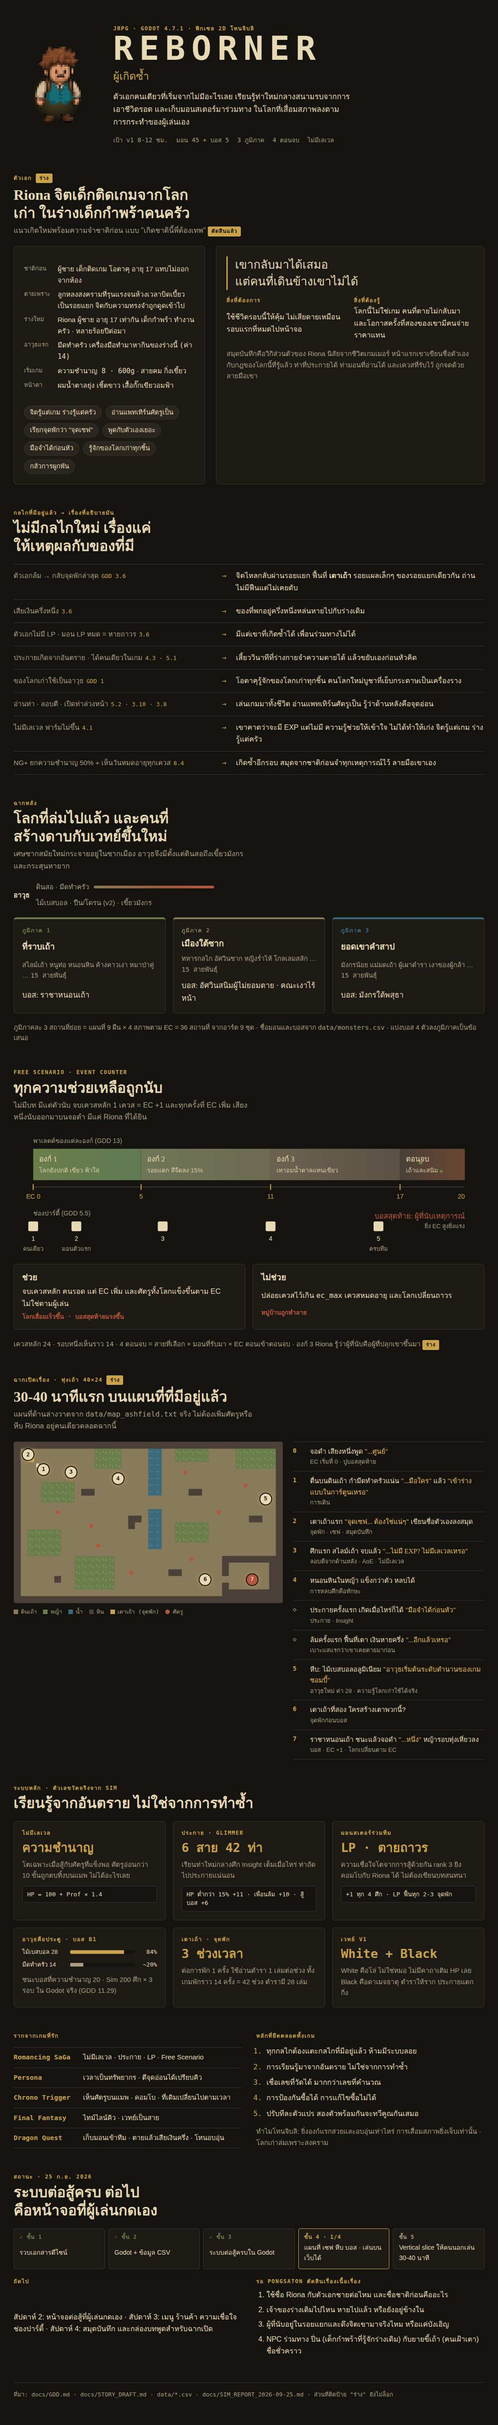
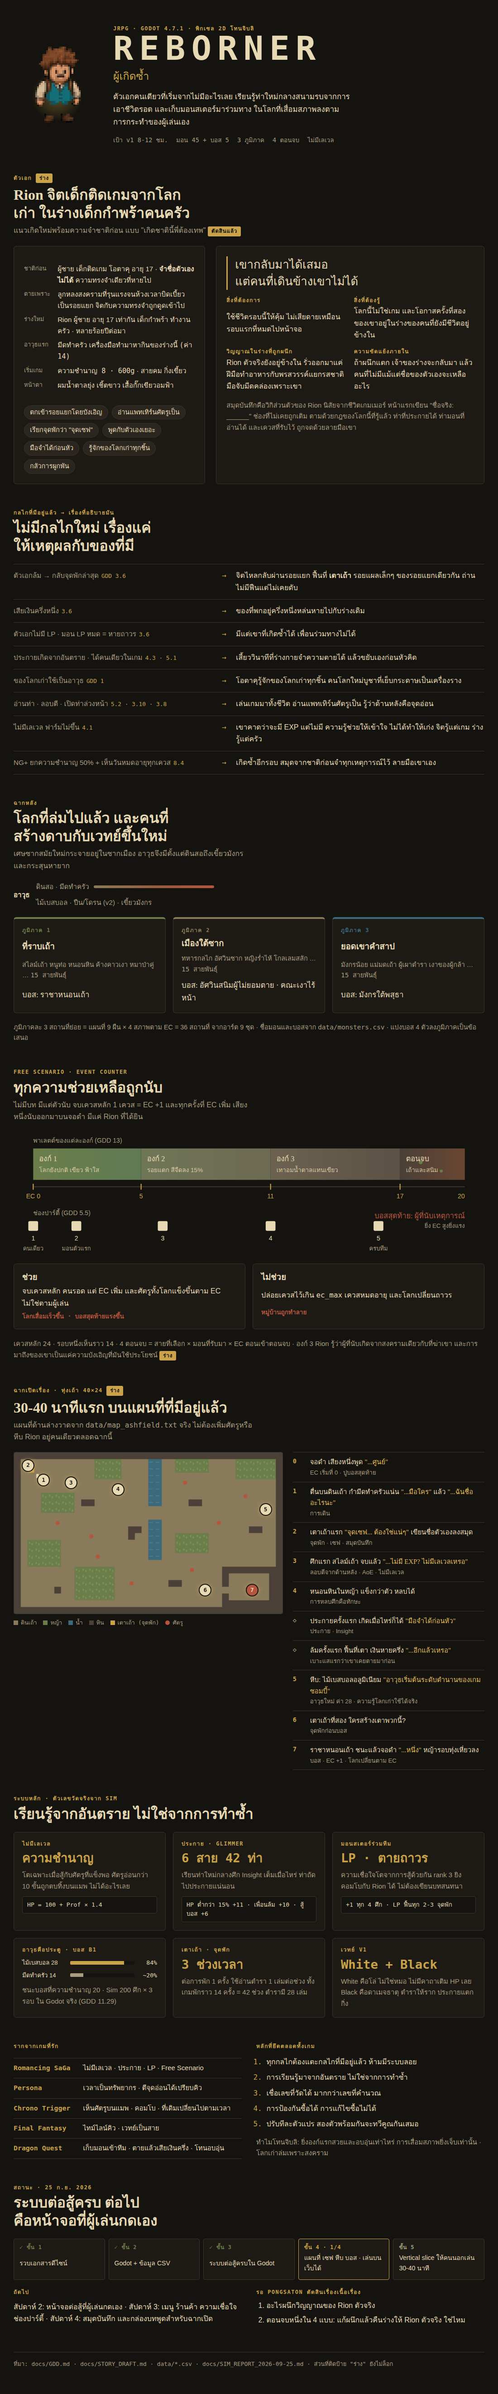
reborner: hero renamed Rion; forgotten past name, sealed original soul, accidental crossing
Claude-Session: https://claude.ai/code/session_01GQscemcyhAULQ41Vq3Zx3F

diff --git a/reborner/docs/INFOGRAPHIC.html b/reborner/docs/INFOGRAPHIC.html
@@ -72,7 +72,7 @@ p { margin: 0; }
 .hero .pitch { max-width: 56ch; margin-top: 16px; font-size: 1.05rem; }
 .hero .meta { display: flex; flex-wrap: wrap; gap: 8px 18px; margin-top: 16px; color: var(--muted); font: 500 0.85rem/1.4 var(--hud); }
 
-/* ── Riona ── */
+/* ── Rion ── */
 .riona { display: grid; grid-template-columns: minmax(0, 5fr) minmax(0, 7fr); gap: 24px; }
 .card { background: var(--ash-2); border: 1px solid var(--line); border-radius: 6px; padding: 22px; display: grid; gap: 16px; align-content: start; }
 .stats { display: grid; grid-template-columns: auto 1fr; gap: 6px 16px; font-size: 0.95rem; }
@@ -189,7 +189,7 @@ footer { color: var(--muted); font: 500 0.8rem/1.6 var(--hud); border-top: 1px s
 
 <!-- ── HERO ── -->
 <section class="hero">
[2 lines of base64/hex data omitted]
   <div>
     <span class="label">JRPG · Godot 4.7.1 · พิกเซล 2D โทนจิบลิ</span>
     <h1>REBORNER</h1>
@@ -203,21 +203,21 @@ footer { color: var(--muted); font: 500 0.8rem/1.6 var(--hud); border-top: 1px s
 <section class="sec">
   <header>
     <span class="label">ตัวเอก <span class="draft">ร่าง</span></span>
-    <h2>Riona จิตเด็กติดเกมจากโลกเก่า ในร่างเด็กกำพร้าคนครัว</h2>
+    <h2>Rion จิตเด็กติดเกมจากโลกเก่า ในร่างเด็กกำพร้าคนครัว</h2>
     <p>แนวเกิดใหม่พร้อมความจำชาติก่อน แบบ "เกิดชาตินี้พี่ต้องเทพ" <span class="draft">ตัดสินแล้ว</span></p>
   </header>
   <div class="riona">
     <div class="card">
       <dl class="stats">
-        <dt>ชาติก่อน</dt><dd>ผู้ชาย เด็กติดเกม โอตาคุ อายุ 17 แทบไม่ออกจากห้อง</dd>
+        <dt>ชาติก่อน</dt><dd>ผู้ชาย เด็กติดเกม โอตาคุ อายุ 17 · <b>จำชื่อตัวเองไม่ได้</b> ความทรงจำเดียวที่หายไป</dd>
         <dt>ตายเพราะ</dt><dd>ลูกหลงสงครามที่รุนแรงจนห้วงเวลาบิดเบี้ยวเป็นรอยแยก จิตกับความทรงจำถูกดูดเข้าไป</dd>
-        <dt>ร่างใหม่</dt><dd>Riona ผู้ชาย อายุ 17 เท่ากัน เด็กกำพร้า ทำงานครัว · หลายร้อยปีต่อมา</dd>
+        <dt>ร่างใหม่</dt><dd>Rion ผู้ชาย อายุ 17 เท่ากัน เด็กกำพร้า ทำงานครัว · หลายร้อยปีต่อมา</dd>
         <dt>อาวุธแรก</dt><dd>มีดทำครัว เครื่องมือทำมาหากินของร่างนี้ <span class="num">(ค่า 14)</span></dd>
         <dt>เริ่มเกม</dt><dd><span class="num">ความชำนาญ 8 · 600g</span> · สายคม กิ่งเขี้ยว</dd>
         <dt>หน้าตา</dt><dd>ผมน้ำตาลยุ่ง เชิ้ตขาว เสื้อกั๊กเขียวอมฟ้า</dd>
       </dl>
       <div class="chips">
-        <span class="chip">จิตรู้แต่เกม ร่างรู้แต่ครัว</span>
+        <span class="chip">ตกเข้ารอยแยกโดยบังเอิญ</span>
         <span class="chip">อ่านแพทเทิร์นศัตรูเป็น</span>
         <span class="chip">เรียกจุดพักว่า "จุดเซฟ"</span>
         <span class="chip">พูดกับตัวเองเยอะ</span>
@@ -230,9 +230,13 @@ footer { color: var(--muted); font: 500 0.8rem/1.6 var(--hud); border-top: 1px s
       <p class="theme-line">เขากลับมาได้เสมอ<br>แต่คนที่เดินข้างเขาไม่ได้</p>
       <div class="wantneed">
         <div><span class="label">สิ่งที่ต้องการ</span><p>ใช้ชีวิตรอบนี้ให้คุ้ม ไม่เสียดายเหมือนรอบแรกที่หมดไปหน้าจอ</p></div>
-        <div><span class="label">สิ่งที่ต้องรู้</span><p>โลกนี้ไม่ใช่เกม คนที่ตายไม่กลับมา และโอกาสครั้งที่สองของเขามีคนจ่ายราคาแทน</p></div>
+        <div><span class="label">สิ่งที่ต้องรู้</span><p>โลกนี้ไม่ใช่เกม และโอกาสครั้งที่สองของเขาอยู่ในร่างของคนที่ยังมีชีวิตอยู่ข้างใน</p></div>
       </div>
-      <p style="color:var(--muted);font-size:0.93rem">สมุดบันทึกคือวิกิส่วนตัวของ Riona นิสัยจากชีวิตเกมเมอร์ หน้าแรกเขาเขียนชื่อตัวเองกับกฎของโลกนี้ที่รู้แล้ว ท่าที่ประกายได้ ท่ามอนที่อ่านได้ และเควสที่รับไว้ ถูกจดด้วยลายมือเขา</p>
+      <div class="wantneed">
+        <div><span class="label">วิญญาณในร่างที่ถูกผนึก</span><p>Rion ตัวจริงยังอยู่ข้างใน รั่วออกมาแค่ฝีมือทำอาหารกับพรสวรรค์แยกรสชาติ มือจับมีดคล่องเพราะเขา</p></div>
+        <div><span class="label">ความขัดแย้งภายใน</span><p>ถ้าผนึกแตก เจ้าของร่างจะกลับมา แล้วคนที่ไม่มีแม้แต่ชื่อของตัวเองจะเหลืออะไร</p></div>
+      </div>
+      <p style="color:var(--muted);font-size:0.93rem">สมุดบันทึกคือวิกิส่วนตัวของ Rion นิสัยจากชีวิตเกมเมอร์ หน้าแรกเขียน "ชื่อจริง: ______" ช่องที่ไม่เคยถูกเติม ตามด้วยกฎของโลกนี้ที่รู้แล้ว ท่าที่ประกายได้ ท่ามอนที่อ่านได้ และเควสที่รับไว้ ถูกจดด้วยลายมือเขา</p>
     </div>
   </div>
 </section>
@@ -294,7 +298,7 @@ footer { color: var(--muted); font: 500 0.8rem/1.6 var(--hud); border-top: 1px s
   <header>
     <span class="label">Free Scenario · Event Counter</span>
     <h2>ทุกความช่วยเหลือถูกนับ</h2>
-    <p>ไม่มีบท มีแต่ตัวนับ จบเควสหลัก 1 เควส = EC +1 และทุกครั้งที่ EC เพิ่ม เสียงหนึ่งนับออกมาบนจอดำ มีแค่ Riona ที่ได้ยิน</p>
+    <p>ไม่มีบท มีแต่ตัวนับ จบเควสหลัก 1 เควส = EC +1 และทุกครั้งที่ EC เพิ่ม เสียงหนึ่งนับออกมาบนจอดำ มีแค่ Rion ที่ได้ยิน</p>
   </header>
   <div class="svgbox">
     <svg viewBox="0 0 960 250" role="img" aria-label="เส้นเวลา EC 0 ถึง 20 แบ่ง 4 องก์ พาเลตต์เปลี่ยนจากเขียวเป็นเถ้า พร้อมช่องปาร์ตี้ที่ปลดล็อก">
@@ -360,7 +364,7 @@ footer { color: var(--muted); font: 500 0.8rem/1.6 var(--hud); border-top: 1px s
       <span class="res">หมู่บ้านถูกทำลาย</span>
     </div>
   </div>
-  <p style="color:var(--muted);font-size:0.93rem">เควสหลัก <span class="num">24</span> · รอบหนึ่งเห็นราว <span class="num">14</span> · 4 ตอนจบ = สายที่เลือก × มอนที่รับมา × EC ตอนเข้าตอนจบ · องก์ 3 Riona รู้ว่าผู้ที่นับคือผู้ที่ปลุกเขาขึ้นมา <span class="draft">ร่าง</span></p>
+  <p style="color:var(--muted);font-size:0.93rem">เควสหลัก <span class="num">24</span> · รอบหนึ่งเห็นราว <span class="num">14</span> · 4 ตอนจบ = สายที่เลือก × มอนที่รับมา × EC ตอนเข้าตอนจบ · องก์ 3 Rion รู้ว่าผู้ที่นับเกิดจากสงครามเดียวกับที่ฆ่าเขา และการมาถึงของเขาเป็นแค่ความบังเอิญที่มันใช้ประโยชน์ <span class="draft">ร่าง</span></p>
 </section>
 
 <!-- ── OPENING ── -->
@@ -368,7 +372,7 @@ footer { color: var(--muted); font: 500 0.8rem/1.6 var(--hud); border-top: 1px s
   <header>
     <span class="label">ฉากเปิดเรื่อง · ทุ่งเถ้า 40×24 <span class="draft">ร่าง</span></span>
     <h2>30-40 นาทีแรก บนแผนที่ที่มีอยู่แล้ว</h2>
-    <p>แผนที่ด้านล่างวาดจาก <span class="num">data/map_ashfield.txt</span> จริง ไม่ต้องเพิ่มศัตรูหรือหีบ Riona อยู่คนเดียวตลอดฉากนี้</p>
+    <p>แผนที่ด้านล่างวาดจาก <span class="num">data/map_ashfield.txt</span> จริง ไม่ต้องเพิ่มศัตรูหรือหีบ Rion อยู่คนเดียวตลอดฉากนี้</p>
   </header>
   <div class="opening">
     <div>
@@ -384,7 +388,7 @@ footer { color: var(--muted); font: 500 0.8rem/1.6 var(--hud); border-top: 1px s
     </div>
     <ol class="beats">
       <li><span class="n">0</span><span class="t">จอดำ เสียงหนึ่งพูด <span class="quote">"...ศูนย์"</span><span class="m">EC เริ่มที่ 0 · ปูบอสสุดท้าย</span></span></li>
-      <li><span class="n">1</span><span class="t">ตื่นบนดินเถ้า กำมีดทำครัวแน่น <span class="quote">"...มือใคร"</span> แล้ว <span class="quote">"เข้าร่างแบบในการ์ตูนเหรอ"</span><span class="m">การเดิน</span></span></li>
+      <li><span class="n">1</span><span class="t">ตื่นบนดินเถ้า กำมีดทำครัวแน่น <span class="quote">"...มือใคร"</span> แล้ว <span class="quote">"...ฉันชื่ออะไรนะ"</span><span class="m">การเดิน</span></span></li>
       <li><span class="n">2</span><span class="t">เตาเถ้าแรก <span class="quote">"จุดเซฟ... ต้องใช่แน่ๆ"</span> เขียนชื่อตัวเองลงสมุด<span class="m">จุดพัก · เซฟ · สมุดบันทึก</span></span></li>
       <li><span class="n">3</span><span class="t">ศึกแรก สไลม์เถ้า จบแล้ว <span class="quote">"...ไม่มี EXP? ไม่มีเลเวลเหรอ"</span><span class="m">ลอบตีจากด้านหลัง · AoE · ไม่มีเลเวล</span></span></li>
       <li><span class="n">4</span><span class="t">หนอนหินในหญ้า แข็งกว่าตัว หลบได้<span class="m">การหลบศึกคือทักษะ</span></span></li>
@@ -419,7 +423,7 @@ footer { color: var(--muted); font: 500 0.8rem/1.6 var(--hud); border-top: 1px s
     <div class="sys">
       <span class="label">มอนสเตอร์ร่วมทีม</span>
       <span class="big">LP · ตายถาวร</span>
-      <p>ความเชื่อใจโตจากการสู้ด้วยกัน rank 3 ยิงคอมโบกับ Riona ได้ ไม่ต้องเขียนบทสนทนา</p>
+      <p>ความเชื่อใจโตจากการสู้ด้วยกัน rank 3 ยิงคอมโบกับ Rion ได้ ไม่ต้องเขียนบทสนทนา</p>
       <div class="formula">+1 ทุก 4 ศึก · LP ฟื้นทุก 2-3 จุดพัก</div>
     </div>
     <div class="sys">
@@ -491,10 +495,8 @@ footer { color: var(--muted); font: 500 0.8rem/1.6 var(--hud); border-top: 1px s
     <div class="sec" style="gap:10px">
       <span class="label">รอ Pongsaton ตัดสินเรื่องเนื้อเรื่อง</span>
       <ol class="open-q">
-        <li>ใช้ชื่อ Riona กับตัวเอกชายต่อไหม และชื่อชาติก่อนคืออะไร</li>
-        <li>เจ้าของร่างเดิมไปไหน หายไปแล้ว หรือยังอยู่ข้างใน</li>
-        <li>ผู้ที่นับอยู่ในรอยแยกและดึงจิตเขามาจริงไหม หรือแค่บังเอิญ</li>
-        <li>NPC ร่วมทาง ปิ่น (เด็กกำพร้าที่รู้จักร่างเดิม) กับยายขี้เถ้า (คนเฝ้าเตา) ชื่อชั่วคราว</li>
+        <li>อะไรผนึกวิญญาณของ Rion ตัวจริง</li>
+        <li>ตอนจบหนึ่งใน 4 แบบ: แก้ผนึกแล้วคืนร่างให้ Rion ตัวจริง ใช่ไหม</li>
       </ol>
     </div>
   </div>

diff --git a/reborner/docs/STORY_DRAFT.md b/reborner/docs/STORY_DRAFT.md
@@ -1,4 +1,4 @@
-# ร่างเรื่อง: ตัวตนของ Riona + ฉากเปิดเรื่อง
+# ร่างเรื่อง: ตัวตนของ Rion + ฉากเปิดเรื่อง
 
 > **สถานะ: ร่าง รอ Pongsaton ตัดสิน** ยังไม่ใช่แหล่งความจริง ตัวเลขและกลไกทั้งหมดยึด `GDD.md`
 > หลักที่ใช้ร่าง: **เรื่องต้องอธิบายกลไกที่มีอยู่แล้ว ห้ามสร้างกลไกใหม่** (GDD 1 หลักข้อ 1)
@@ -9,7 +9,7 @@
 ## 1. ชื่อเกมหมายถึงอะไร
 
 **REBORNER = ผู้เกิดซ้ำ** คนที่ตายแล้วกลับมา
-ในโลกของเกมมีคนแบบนี้แค่คนเดียวที่ใครรู้จัก คือ Riona จิตของเด็กติดเกมจากโลกเก่า ที่ไหลผ่านรอยแยกห้วงเวลามาอยู่ในร่างเด็กกำพร้าคนครัว
+ในโลกของเกมมีคนแบบนี้แค่คนเดียวที่ใครรู้จัก คือ Rion จิตของเด็กติดเกมจากโลกเก่า ที่ไหลผ่านรอยแยกห้วงเวลามาอยู่ในร่างเด็กกำพร้าคนครัว
 
 | กลไกใน GDD | เรื่องอธิบายว่า |
 |---|---|
@@ -23,18 +23,24 @@
 
 ---
 
-## 2. Riona
+## 2. Rion
 
 > ✅ Pongsaton ตัดสินแล้ว (25 ก.ย. 2026)
 > - แนวเกิดใหม่พร้อมความจำชาติก่อน แบบ "เกิดชาตินี้พี่ต้องเทพ" (ยืมแค่โครง ไม่ยืมตัวละคร ฉาก หรือเหตุการณ์)
 > - ชาติก่อน: **ผู้ชาย** เด็กติดเกม/โอตาคุ อายุ 17 ตายเพราะลูกหลงสงครามในอารยธรรมเก่า
 > - สงครามรุนแรงจน **ห้วงเวลาบิดเบี้ยวเป็นรอยแยก** จิตวิญญาณและความทรงจำของเขาถูกดูดเข้าไปในรอยนั้นพอดี
-> - ไปอยู่ใน **ร่างใหม่ อายุ 17 เท่ากัน · ผู้ชาย · เด็กกำพร้า · อาชีพทำครัว**
+> - ไปอยู่ใน **ร่างใหม่ อายุ 17 เท่ากัน · ผู้ชาย · เด็กกำพร้า · อาชีพทำครัว** · ชื่อ **Rion**
+> - **สิ่งเดียวที่เขาจำไม่ได้คือชื่อของตัวเองในชาติก่อน**
+> - **วิญญาณเจ้าของร่างเดิมยังอยู่ในร่าง แต่ถูกผนึกไว้** เหลือออกมาแค่ฝีมือทำอาหารกับพรสวรรค์แยกรสชาติ
+> - ตกลงไปในรอยแยก **โดยบังเอิญ** ไม่มีใครเลือกเขา
 
-### ใครคือ Riona
-- **Riona คือชื่อของร่างใหม่** เด็กกำพร้าที่ทำงานครัวในโลกใหม่ (ชื่อชาติก่อนยังไม่ได้ตั้ง)
+### ใครคือ Rion
+- **Rion คือชื่อของร่างใหม่** เด็กกำพร้าที่ทำงานครัวในโลกใหม่
+- **ชื่อชาติก่อน: จำไม่ได้** เป็นความทรงจำเดียวที่หายไป เขาจำเกมทุกเกม จำแสงระเบิดได้ แต่จำไม่ได้ว่าตัวเองชื่ออะไร
+  → ผู้เล่นไม่มีวันรู้ชื่อนั้นเช่นกัน (ถ้าจะเฉลย ให้เก็บไว้ในตอนจบใดตอนจบหนึ่งเท่านั้น)
 - **จิตในร่าง:** เด็กติดเกมและโอตาคุจากโลกเก่า ใช้ชีวิตเกือบทั้งหมดอยู่หน้าจอ ตายเพราะลูกหลงสงคราม ไม่ได้เป็นทหาร ไม่ได้สู้ แค่อยู่ผิดที่ผิดเวลา
-- **รอยแยกห้วงเวลา:** สงครามครั้งนั้นแรงจนฉีกเวลา จิตของเขาไหลผ่านรอยแยกมาโผล่หลายร้อยปีต่อมา ในร่างที่อายุเท่ากันพอดี
+- **รอยแยกห้วงเวลา:** สงครามครั้งนั้นแรงจนฉีกเวลา จิตของเขาไหลผ่านรอยแยกมาโผล่หลายร้อยปีต่อมา ในร่างที่อายุเท่ากันพอดี **โดยบังเอิญ** ไม่ใช่ผู้ถูกเลือก ไม่มีภารกิจ
+- **เจ้าของร่างเดิม:** วิญญาณของ Rion ตัวจริงยังอยู่ในร่าง แต่ถูกผนึกไว้ สิ่งที่รั่วออกมามีแค่ฝีมือทำอาหาร กับ **พรสวรรค์แยกรสชาติ** (ลิ้นที่บอกได้ว่าในอาหารมีอะไรบ้าง)
 - **มีดทำครัว** เป็นเครื่องมือทำมาหากินของร่างนี้ → อาวุธเริ่มต้น (`PlayerState` · ค่า 14) และสายแรกคือ "คม"
 - **ร่างเป็นเด็กกำพร้า** ไม่มีบ้านให้กลับ ไม่มีครอบครัวให้บอกว่าตัวเองเปลี่ยนไป → องก์ 1 เริ่มจากความเหงาได้โดยไม่ต้องเขียนบทอธิบาย
 - หน้าตาตามเฟรมที่มีแล้วใน `assets/sprites/hero/`: ผมน้ำตาลสั้นยุ่ง เสื้อเชิ้ตขาวใต้เสื้อกั๊กเขียวอมฟ้า กางเกงเขียวเข้ม รองเท้าบูทน้ำตาล
@@ -48,10 +54,11 @@
 | จิต (เกมเมอร์) | เรียกจุดพักว่า "จุดเซฟ" | จุดพัก = เซฟ (สัปดาห์ 1 มีแล้ว) |
 | จิต (โอตาคุ) | รู้จักของโลกเก่าทุกชิ้น คนโลกใหม่บูชาเป็นเครื่องราง | อาวุธจากเศษซากสมัยใหม่ (ฉากหลัง GDD 1) |
 | จิต (เกมเมอร์) | **คาดว่าจะมีเลเวล มี EXP → ไม่มี** | ไม่มีเลเวล ฟาร์มไม่ขึ้น (4.1) ← มุกที่สอนผู้เล่นไปพร้อมกัน |
-| ร่าง (คนครัว) | มือจับมีดคล่อง | ประกายสาย "คม" · "มือจำได้ก่อนหัว" คือมือของร่างนี้ |
-| ร่าง (คนครัว) | ทำอาหารเป็น | ระบบทำอาหาร → สเตตัสถาวร (v2 · GDD 2) มีเหตุผลรออยู่แล้ว |
+| วิญญาณที่ถูกผนึก | มือจับมีดคล่อง | ประกายสาย "คม" · "มือจำได้ก่อนหัว" คือมือของ Rion ตัวจริง |
+| วิญญาณที่ถูกผนึก | ทำอาหารเป็น | ระบบทำอาหาร → สเตตัสถาวร (v2 · GDD 2) มีเหตุผลรออยู่แล้ว |
+| วิญญาณที่ถูกผนึก | พรสวรรค์แยกรสชาติ | (v2 · ข้อเสนอ) ชิมของดรอปแล้วรู้ว่าใช้ทำอะไร · **ยังไม่มีกลไกรองรับ ห้ามเพิ่มใน v1** |
 
-**จิตรู้แต่เกม ร่างรู้แต่ครัว ไม่มีใครรู้วิธีสู้จริง** → ความชำนาญเริ่มที่ 8 และต้องเรียนจากอันตรายจริงเท่านั้น
+**จิตรู้แต่เกม วิญญาณที่ถูกผนึกรู้แต่ครัว ไม่มีใครรู้วิธีสู้จริง** → ความชำนาญเริ่มที่ 8 และต้องเรียนจากอันตรายจริงเท่านั้น
 
 ### นิสัย
 - **ช่างสังเกต พูดน้อยกับคน แต่พูดกับตัวเองเยอะ** บทพูดส่วนใหญ่เป็นเสียงในหัว เหมาะกับจอเล็กและไม่ต้องมี NPC ตอบ
@@ -61,17 +68,19 @@
 
 ### สิ่งที่เขาต้องการ vs สิ่งที่เขาจำเป็นต้องรู้
 - **ต้องการ:** ใช้ชีวิตรอบนี้ให้คุ้ม ไม่เสียดายเหมือนรอบแรก
-- **จำเป็นต้องรู้:** โลกนี้ไม่ใช่เกม คนที่ตายไม่กลับมา และโอกาสครั้งที่สองของเขาอยู่ในร่างของคนอื่น (เจ้าของร่างเดิมไปไหน? ← คำถามที่เรื่องต้องตอบ)
+- **จำเป็นต้องรู้:** โลกนี้ไม่ใช่เกม คนที่ตายไม่กลับมา และโอกาสครั้งที่สองของเขา **อยู่ในร่างของคนที่ยังมีชีวิตอยู่ข้างใน**
+- ความขัดแย้งภายใน: ถ้าผนึกแตก Rion ตัวจริงจะกลับมา แล้วเขาที่ไม่มีแม้แต่ชื่อของตัวเองจะเหลืออะไร
 
 ### สมุดบันทึก
-- ระบบที่ GDD 15 บอกว่าขาดไม่ได้ ทำให้เป็น **สมุดวิกิส่วนตัวของ Riona** นิสัยจากชีวิตเกมเมอร์
-- หน้าแรกเขาเขียนชื่อร่างนี้ "Riona" กับ "กฎของโลกนี้ที่รู้แล้ว" ท่าที่ประกายได้ ท่ามอนที่อ่านได้ และเควสที่รับไว้ ถูกจดด้วยลายมือเขา
+- ระบบที่ GDD 15 บอกว่าขาดไม่ได้ ทำให้เป็น **สมุดวิกิส่วนตัวของ Rion** นิสัยจากชีวิตเกมเมอร์
+- หน้าแรกเขาเขียน "ชื่อ: Rion (ชื่อของร่างนี้) · ชื่อจริง: ______" ช่องว่างนั้นไม่เคยถูกเติม ตามด้วย "กฎของโลกนี้ที่รู้แล้ว" ท่าที่ประกายได้ ท่ามอนที่อ่านได้ และเควสที่รับไว้ ถูกจดด้วยลายมือเขา
 - NG+: สมุดเล่มเดิมอยู่ที่เตาเถ้าแรก ลายมือเดียวกัน แต่เขาจำไม่ได้ว่าเขียน
 
 ### รอยแยกห้วงเวลากับเตาเถ้า (ข้อเสนอ)
 - เตาเถ้า (จุดพัก) = **รอยแผลเล็กๆ ของรอยแยกเดียวกัน** ถ่านไม่มีฟืนแต่ไม่ดับ
 - จิตที่เคยไหลผ่านรอยแยกมาแล้วหนึ่งครั้ง ตายเมื่อไหร่ก็ไหลกลับมาโผล่ที่รอยที่ใกล้ที่สุด → ฟื้นที่จุดพักล่าสุด (3.6)
 - ผู้ที่นับเหตุการณ์ **อาศัยอยู่ในรอยแยก** มันคือสิ่งที่นับ "เหตุการณ์" ตั้งแต่สงครามครั้งนั้น
+- **มันไม่ได้ดึงเขามา** เขาตกลงไปเองโดยบังเอิญ (✅ ตัดสินแล้ว) แต่พอเขามาถึง มันก็นับทุกเหตุการณ์ที่เขาทำ
 
 ---
 
@@ -80,9 +89,9 @@
 - ตัวตนของมันคือ Event Counter เอง **ทุกครั้งที่ EC เพิ่ม มันนับออกเสียง**
   ผู้เล่นได้ยินแค่เสียงเดียวบนจอดำสั้นๆ: "หนึ่ง" "สอง" ... (ต้นทุนผลิตต่ำ: ข้อความ 1 บรรทัดต่อ EC)
 - เปิดเผยทีละน้อย:
-  - องก์ 1 (EC 0-4): เสียงนับที่ไม่มีใครได้ยินนอกจาก Riona
+  - องก์ 1 (EC 0-4): เสียงนับที่ไม่มีใครได้ยินนอกจาก Rion
   - องก์ 2 (EC 5-10): NPC เริ่มสังเกตว่าทุกครั้งที่เขาทำเรื่องใหญ่สำเร็จ บางอย่างในโลกพังลงนิดหนึ่ง
-  - องก์ 3 (EC 11-16): เขารู้ว่า **มันคือผู้ที่ปลุกเขาขึ้นมา** เพื่อให้ "เหตุการณ์" เกิดเร็วขึ้นจนนับครบ
+  - องก์ 3 (EC 11-16): เขารู้ว่าผู้ที่นับเกิดจากสงครามครั้งเดียวกับที่ฆ่าเขา และ **การมาถึงของเขาเป็นแค่ความบังเอิญ** ที่มันใช้ประโยชน์ ทุกเหตุการณ์ที่เขาทำให้มันนับใกล้ครบ
 - **คำถามหลักของเรื่อง: ทุกความช่วยเหลือถูกนับ**
   - ช่วยคน (จบเควสหลัก) → EC เพิ่ม → โลกเสื่อม และศัตรูแข็งขึ้น (8.2 `enemy_tier` ผูกกับ EC)
   - ไม่ช่วย → เควสหมดอายุ (`ec_max`) → หมู่บ้านถูกทำลาย
@@ -99,8 +108,8 @@
 | # | ที่ไหนบนแผนที่ | เกิดอะไร | กลไกที่สอน |
 |---|---|---|---|
 | 0 | จอดำ | เสียงหนึ่งพูดว่า "...ศูนย์" | EC เริ่มที่ 0 · ปูบอสสุดท้าย |
-| 1 | `H` (มุมซ้ายบน) | Riona ตื่นบนดินเถ้า มองมือตัวเองที่มีแผลมีดบาดแบบคนครัว "...มือใคร" ภาพสุดท้ายที่จำได้คือแสงระเบิด "นี่มันเข้าร่างแบบในการ์ตูนเหรอ" | การเดิน |
-| 2 | `R` ข้าง `H` | เตาหินเล็กๆ มีถ่านแดงที่ไม่มีฟืนแต่ไม่ดับ "จุดเซฟ... ต้องใช่แน่ๆ" เปิดสมุดเปล่า เขียนชื่อตัวเองไว้หน้าแรก | จุดพัก · เซฟ · SP เต็ม · สมุดบันทึก |
+| 1 | `H` (มุมซ้ายบน) | Rion ตื่นบนดินเถ้า มองมือตัวเองที่มีแผลมีดบาดแบบคนครัว "...มือใคร" ภาพสุดท้ายที่จำได้คือแสงระเบิด "นี่มันเข้าร่างแบบในการ์ตูนเหรอ... เดี๋ยว ฉันชื่ออะไรนะ" | การเดิน |
+| 2 | `R` ข้าง `H` | เตาหินเล็กๆ มีถ่านแดงที่ไม่มีฟืนแต่ไม่ดับ "จุดเซฟ... ต้องใช่แน่ๆ" เปิดสมุดเปล่า เขียน "ชื่อจริง: ______" แล้วเขียนต่อไม่ได้ เห็นชื่อ "Rion" ปักอยู่บนผ้ากันเปื้อน | จุดพัก · เซฟ · SP เต็ม · สมุดบันทึก |
 | 3 | `1` สไลม์เถ้า | ศึกแรก สไลม์แยกร่างเมื่อโดนตีเดี่ยว จบศึกแล้ว "...ไม่มี EXP? ไม่มีเลเวลเหรอ" | ลอบตีจากด้านหลัง (×0.4) · คุณค่าของ AoE · ไม่มีเลเวล |
 | 4 | หญ้า `,` + `2` หนอนหิน | ศัตรูแข็งกว่าตัว ผู้เล่นเลือกหลบได้ | การหลบศึกเป็นทักษะ (3.10) |
 | ◇ | ครั้งแรกที่ประกาย (เกิดเมื่อไหร่ก็ได้) | จอหยุดครึ่งวินาที "มือจำได้ก่อนหัว... นี่แหละวิธีเก่งของโลกนี้" ชื่อท่าถูกเขียนลงสมุด | ประกาย · Insight |
@@ -110,7 +119,7 @@
 | 7 | `B` ราชาหนอนเถ้า | บอสแรก ชนะแล้วจอดำ เสียงเดิม "...หนึ่ง" · หญ้ารอบทุ่งเหี่ยวลงนิดหนึ่ง | บอส · EC +1 · โลกเปลี่ยนตาม EC |
 
 ### กฎของฉากเปิดเรื่อง
-- **Riona อยู่คนเดียวตลอดฉากเปิด** ช่องปาร์ตี้ EC 0 = 1 ช่อง (GDD 5.5 "อยู่คนเดียว เกมโหดจริง") มอนตัวแรกมาที่ EC 2
+- **Rion อยู่คนเดียวตลอดฉากเปิด** ช่องปาร์ตี้ EC 0 = 1 ช่อง (GDD 5.5 "อยู่คนเดียว เกมโหดจริง") มอนตัวแรกมาที่ EC 2
   - ⚠ ตอนนี้ Sim และแผนที่ยังให้มอนร่วมทีม 2 ตัวตายตัว (ช่องโหว่ที่รู้แล้วใน CLAUDE.md) ทำฉากเปิดจริงเมื่อไหร่ต้องวัดบอส B1 แบบคนเดียวใหม่
 - **ฉาก ◇ (ประกาย/ล้ม) ผูกกับเหตุการณ์ ไม่ผูกกับตำแหน่ง** เกิดครั้งแรกเมื่อไหร่ก็เล่นตอนนั้น ครั้งเดียว ถ้าผู้เล่นไม่เคยล้มเลย เบาะแส "อีกแล้ว" ย้ายไปพูดหลังชนะบอส
 - **ไม่มีข้อความสอนเล่นแบบกล่องใหญ่** จอ 384x216 เล็ก บทพูดไม่เกิน 1 บรรทัดต่อครั้ง
@@ -129,17 +138,21 @@
 
 | ชื่อ (ชั่วคราว) | เป็นใคร | หน้าที่ในเกม |
 |---|---|---|
-| **ปิ่น** | เด็กกำพร้าจากที่เดียวกับร่าง Riona รู้จัก "Riona คนเดิม" และสังเกตว่าเขาเปลี่ยนไป · ชอบเก็บของเก่า ถามตลอดว่าแต่ละชิ้นคืออะไร | ร้านค้า/แลกของ · ปากของผู้เล่นที่ถามเรื่องโลกเก่า |
-| **ยายขี้เถ้า** | คนเฝ้าเตาเถ้าที่แก่ที่สุด รู้ว่าเตาพวกนี้มีมาก่อนหมู่บ้าน | อ่านตำราที่จุดพัก (7.4) · ปูความจริงเรื่องผู้ที่นับ |
+| **ปิ่น** | เด็กกำพร้าจากที่เดียวกับร่าง Rion รู้จัก "Rion คนเดิม" และสังเกตว่าเขาเปลี่ยนไป · คนเดียวที่ชิมอาหารแล้วบอกว่า "รสมือยังเหมือนเดิม" · ชอบเก็บของเก่า ถามตลอดว่าแต่ละชิ้นคืออะไร | ร้านค้า/แลกของ · ปากของผู้เล่นที่ถามเรื่องโลกเก่า |
+| **ยายขี้เถ้า** | คนเฝ้าเตาเถ้าที่แก่ที่สุด รู้ว่าเตาพวกนี้มีมาก่อนหมู่บ้าน · อาจรู้วิธีแก้ผนึก | อ่านตำราที่จุดพัก (7.4) · ปูความจริงเรื่องผู้ที่นับ |
 | (ช่องที่ 3) | เว้นไว้ ขึ้นกับสาย mutex ที่ผู้เล่นเลือก | ใช้แยกตอนจบ (8.4) |
 
 ---
 
 ## 6. คำถามที่ต้องให้ Pongsaton ตัดสิน
-- ~~Riona มาจากโลกเก่าจริงไหม~~ → ✅ จิตมาจากโลกเก่า (เด็กติดเกม/โอตาคุ) ร่างเป็นคนโลกใหม่
-- ~~อาชีพ~~ → ✅ ร่างใหม่เป็นเด็กกำพร้าทำครัว · ~~อายุ~~ → ✅ 17 ทั้งสองชาติ · ~~เพศ~~ → ✅ ผู้ชายทั้งสองชาติ
-- ~~อะไรทำให้อารยธรรมล่ม~~ → ✅ สงครามที่รุนแรงจนห้วงเวลาบิดเบี้ยว (ใครรบกับใคร ทำไม ยังเปิดไว้)
-1. ใช้ชื่อ "Riona" กับตัวเอกชายต่อไหม และชื่อชาติก่อนคืออะไร
-2. เจ้าของร่างเดิมไปไหน: หายไปแล้ว หรือยังอยู่ข้างใน (แบบหลังเปิดทางให้ตอนจบหนึ่งใน 4 แบบ)
-3. ผู้ที่นับเหตุการณ์อยู่ในรอยแยกและเป็นคนดึงจิตเขามาจริงไหม หรือเขาแค่ตกลงไปในรอยแยกโดยบังเอิญ
-4. ชื่อ ปิ่น / ยายขี้เถ้า เป็นชื่อชั่วคราว
+ตัดสินแล้ว (25 ก.ย. 2026):
+- จิตมาจากโลกเก่า (ผู้ชาย เด็กติดเกม/โอตาคุ 17) · ร่างใหม่ผู้ชาย 17 เด็กกำพร้าทำครัว
+- อารยธรรมเก่าล่มเพราะสงครามที่รุนแรงจนห้วงเวลาบิดเบี้ยว (ใครรบกับใคร ทำไม ยังเปิดไว้)
+- ชื่อตัวเอก **Rion** · ชื่อชาติก่อน **จำไม่ได้** (ความทรงจำเดียวที่หาย)
+- วิญญาณเจ้าของร่างเดิม **ยังอยู่ แต่ถูกผนึก** เหลือแค่ฝีมือทำอาหาร + พรสวรรค์แยกรสชาติ
+- ตกเข้ารอยแยก **โดยบังเอิญ** ผู้ที่นับไม่ได้ดึงเขามา
+- ชื่อ ปิ่น / ยายขี้เถ้า **ใช้ไปก่อน**
+
+ยังเปิดอยู่:
+1. อะไรผนึกวิญญาณของ Rion ตัวจริง (การที่จิตอีกดวงเข้ามาแทรก หรือมีคนทำ)
+2. ข้อเสนอตอนจบ: หนึ่งใน 4 ตอนจบคือ **แก้ผนึกแล้วคืนร่างให้ Rion ตัวจริง** ← ใช่ไหม

diff --git a/reborner/CLAUDE.md b/reborner/CLAUDE.md
@@ -5,7 +5,7 @@ JRPG ทำคนเดียวตอนเย็น · Godot 4.7.1 · GDScript
 
 ## แหล่งความจริง
 - `docs/GDD.md` — ดีไซน์ทั้งหมด ตัวเลขที่จูนแล้ว (หมวด 10) และ **บทเรียน 29 ข้อ (หมวด 11) อ่านก่อนแก้อะไรก็ตาม**
-- `docs/STORY_DRAFT.md` — ร่างเรื่อง: ตัวตน Riona · ฉากเปิดเรื่อง · ผู้ที่นับเหตุการณ์ (**ร่าง** ขัดกับ GDD เมื่อไหร่ให้เชื่อ GDD)
+- `docs/STORY_DRAFT.md` — ร่างเรื่อง: ตัวตน Rion · ฉากเปิดเรื่อง · ผู้ที่นับเหตุการณ์ (**ร่าง** ขัดกับ GDD เมื่อไหร่ให้เชื่อ GDD)
 - `data/*.csv` + `data/map_ashfield.txt` — ข้อมูลเกมทั้งหมด (`monsters_workbook.xlsx` เป็นเอกสารออกแบบ ค่าอาจเก่ากว่า CSV)
 
 ## โครงสร้าง

diff --git a/reborner/docs/GDD.md b/reborner/docs/GDD.md
@@ -645,7 +645,7 @@ enemy_tier | unlocks_char | sets_world_flag
 
 **ผู้ที่นับเหตุการณ์** — ตัวตนของมันคือ Event Counter เอง ยิ่ง EC สูงยิ่งแรง
 
-> ร่างตัวตน Riona + ฉากเปิดเรื่อง + ผู้ที่นับ: `docs/STORY_DRAFT.md` (ร่าง · ยังไม่ล็อก)
+> ร่างตัวตน Rion + ฉากเปิดเรื่อง + ผู้ที่นับ: `docs/STORY_DRAFT.md` (ร่าง · ยังไม่ล็อก)
 
 ---
 
